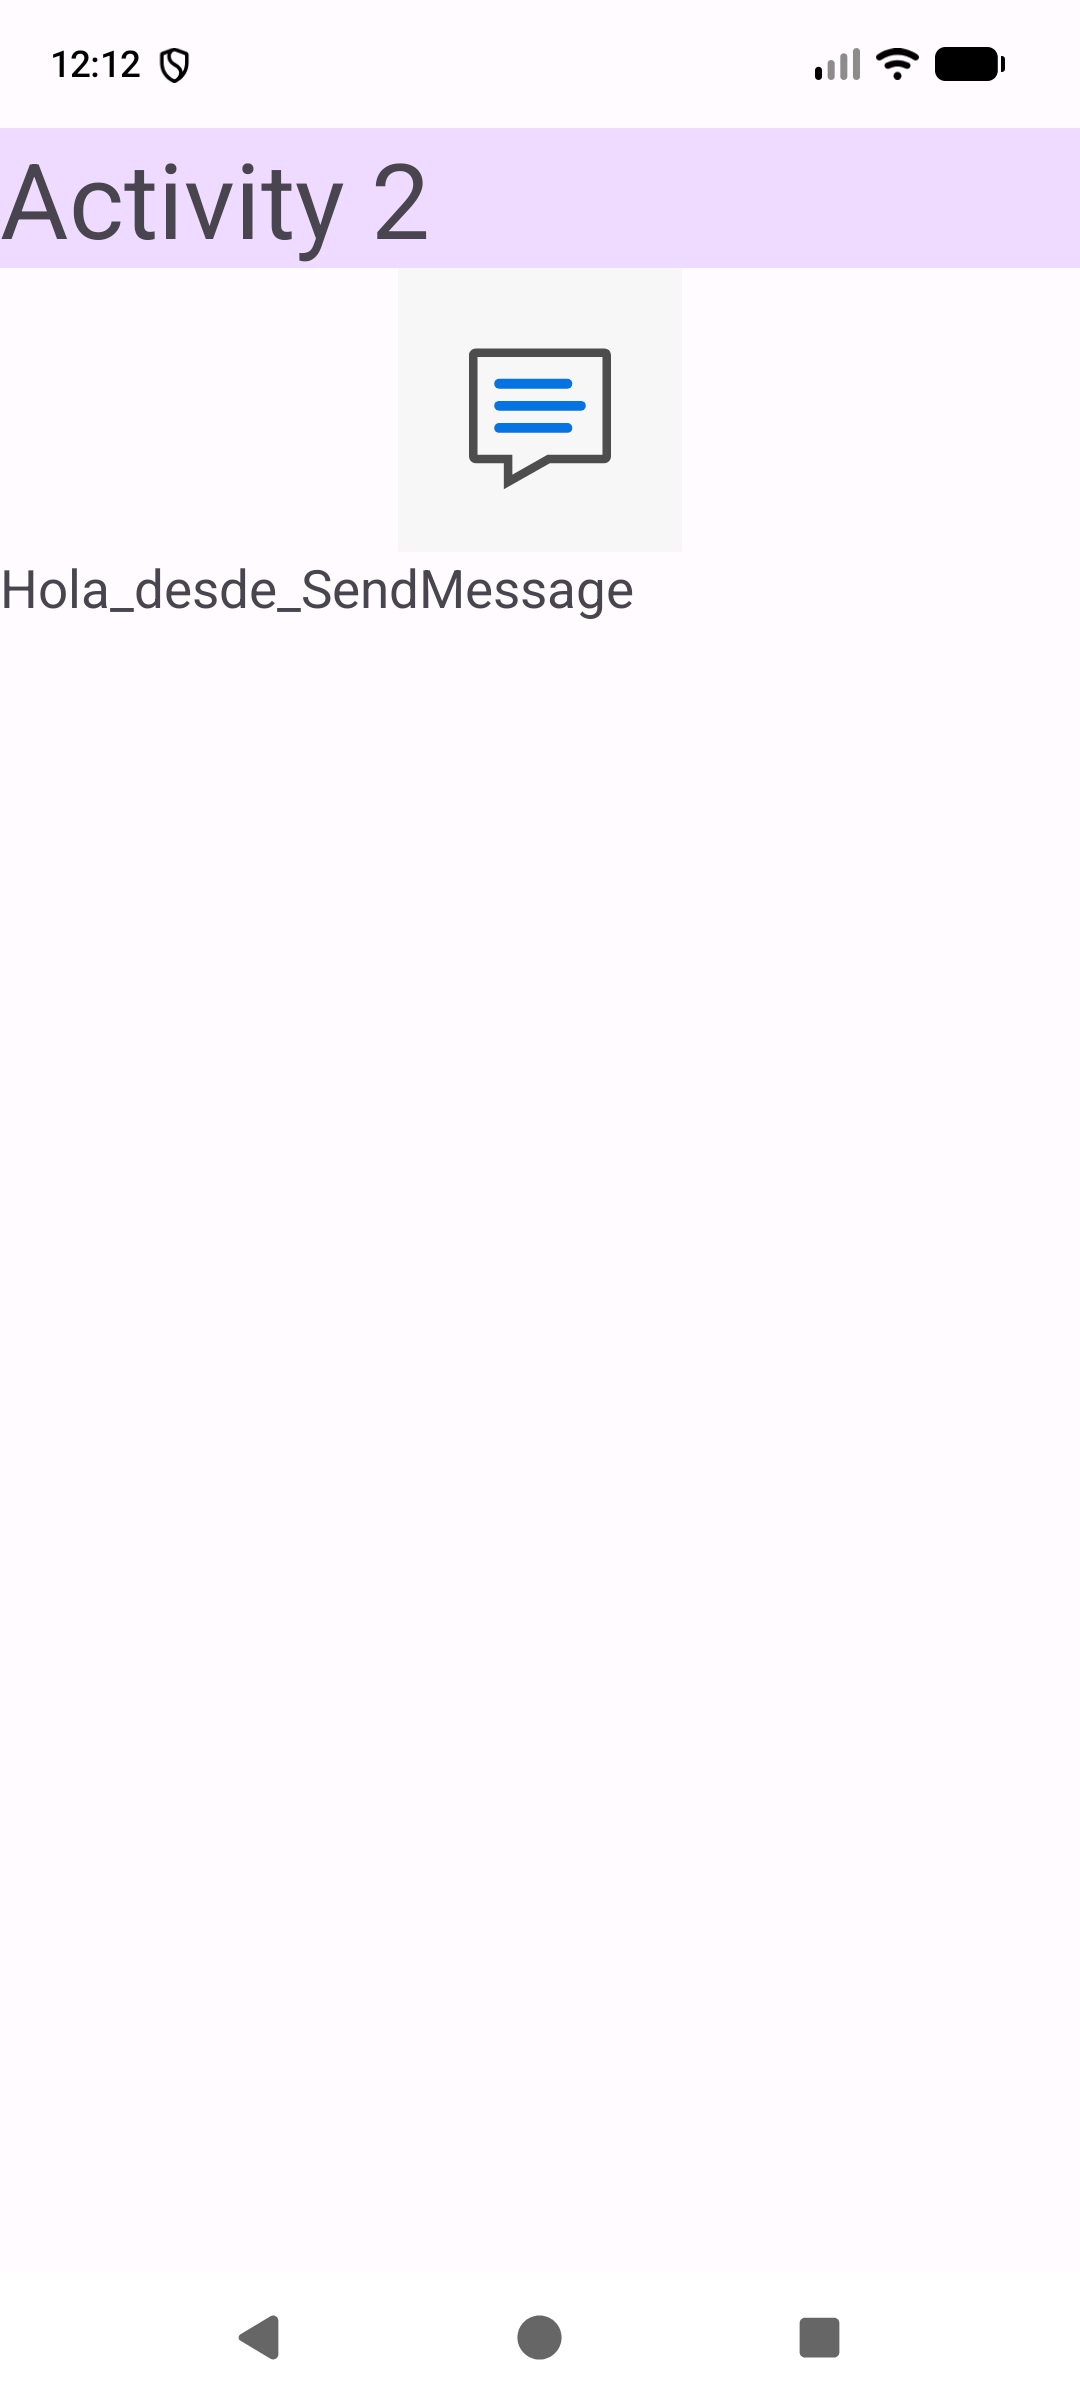
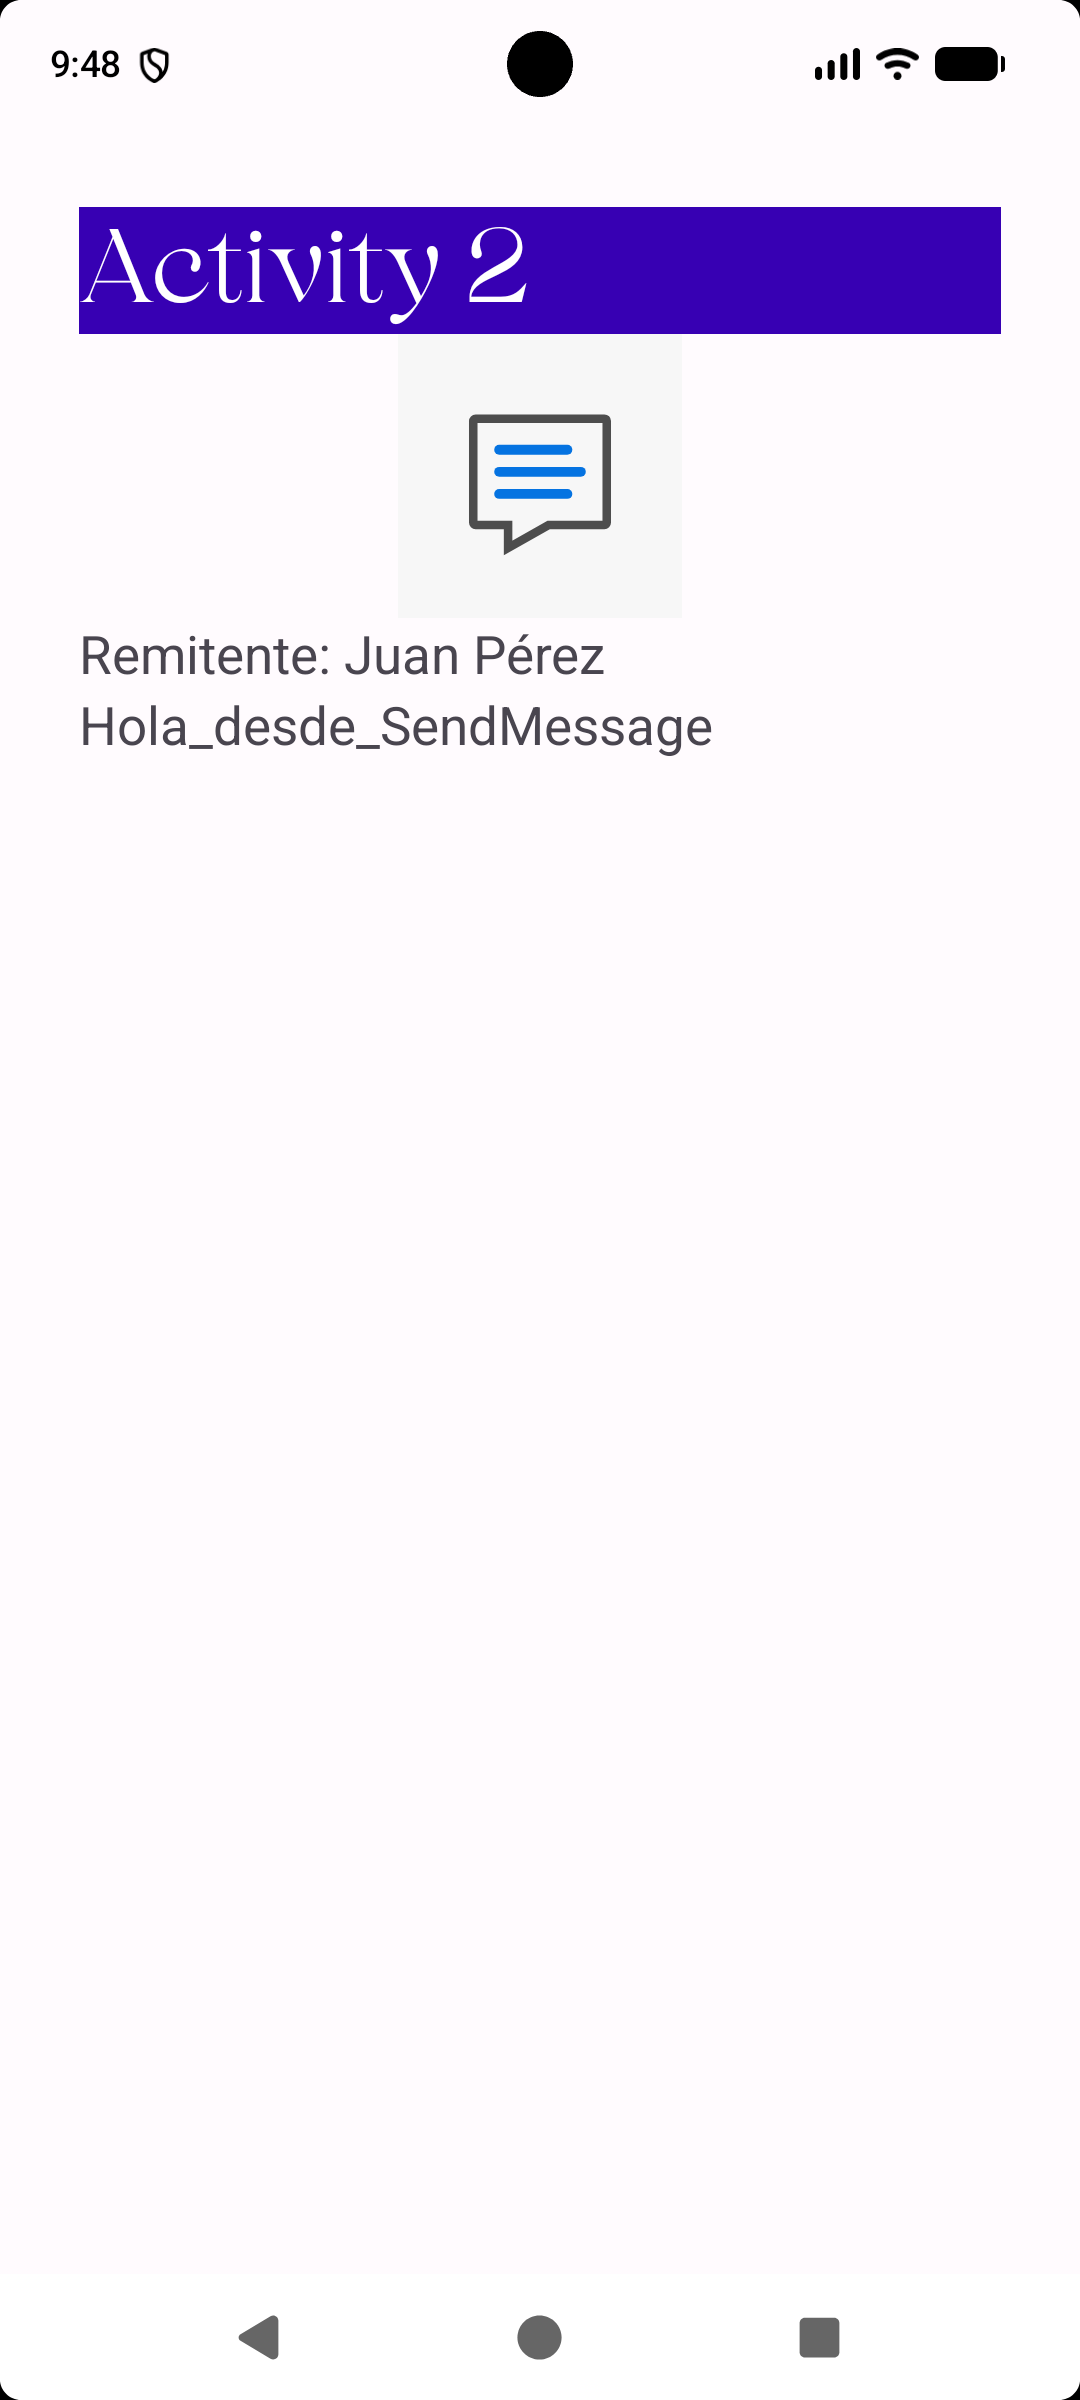
Utilizado interfaz parcelable. Actualización de la documentación

Changed region(s): [[0.0, 0.0, 1.0, 0.3125]]

diff --git a/app/src/main/java/com/example/sendmessage/ViewMessageActivity.kt b/app/src/main/java/com/example/sendmessage/ViewMessageActivity.kt
@@ -14,17 +14,23 @@ import com.example.sendmessage.model.Message
 /**
  * Pantalla secundaria que recibe y muestra el mensaje enviado desde [SendMessagesActivity].
  *
- * Extrae el objeto [Message] (Serializable) de los extras del [Intent] mediante la clave
+ * Extrae el objeto [Message] (Parcelable) de los extras del [Intent] mediante la clave
  * [SendMessagesActivity.KEY_MESSAGE] y despliega en pantalla tanto el remitente como el mensaje.
+ *  @author Andrey Udodov
+ *  @version 1.0
  */
 class ViewMessageActivity : AppCompatActivity() {
 
+    /**
+     * Objeto de compañía con constantes utilizadas en [ViewMessageActivity].
+     */
     companion object {
+        /** Etiqueta para los mensajes de depuración en LogCat. */
         const val TAG = "LogViewMessageActivity"
     }
 
     /**
-     * Método de ciclo de vida que inicializa el diseño, ajusta los insets de ventana (edge-to-edge)
+     * Función de ciclo de vida que inicializa el diseño, ajusta los insets de ventana (edge-to-edge)
      * y obtiene el mensaje del [Intent] para mostrarlo en pantalla.
      *
      * @param savedInstanceState Estado guardado de la actividad, si existe.
@@ -44,10 +50,10 @@ class ViewMessageActivity : AppCompatActivity() {
         val tvMessage = findViewById<TextView>(R.id.tvMessage)
 
         val message = if (Build.VERSION.SDK_INT >= Build.VERSION_CODES.TIRAMISU) {
-            intent.getSerializableExtra(SendMessagesActivity.KEY_MESSAGE, Message::class.java)
+            intent.getParcelableExtra(SendMessagesActivity.KEY_MESSAGE, Message::class.java)
         } else {
             @Suppress("DEPRECATION")
-            intent.getSerializableExtra(SendMessagesActivity.KEY_MESSAGE) as? Message
+            intent.getParcelableExtra(SendMessagesActivity.KEY_MESSAGE) as? Message
         }
 
         message?.let {
@@ -59,26 +65,31 @@ class ViewMessageActivity : AppCompatActivity() {
     }
 
     //region Ciclo de Vida de una Actividad
+    /** Función llamada cuando la actividad se vuelve visible para el usuario. */
     override fun onStart() {
         super.onStart()
         Log.d(TAG, "ViewMessageActivity -> onStart()")
     }
 
+    /** Función llamada cuando la actividad comienza a interactuar con el usuario. */
     override fun onResume() {
         super.onResume()
         Log.d(TAG, "ViewMessageActivity -> onResume()")
     }
 
+    /** Función llamada cuando la actividad pierde el foco pero sigue siendo visible. */
     override fun onPause() {
         super.onPause()
         Log.d(TAG, "ViewMessageActivity -> onPause()")
     }
 
+    /** Función llamada cuando la actividad ya no es visible para el usuario. */
     override fun onStop() {
         super.onStop()
         Log.d(TAG, "ViewMessageActivity -> onStop()")
     }
 
+    /** Función llamada antes de que la actividad sea destruida. */
     override fun onDestroy() {
         super.onDestroy()
         Log.d(TAG, "ViewMessageActivity -> onDestroy()")

diff --git a/app/src/main/java/com/example/sendmessage/SendMessagesActivity.kt b/app/src/main/java/com/example/sendmessage/SendMessagesActivity.kt
@@ -25,19 +25,25 @@ import com.example.sendmessage.model.Person
  * @see android.os.Bundle
  */
 class SendMessagesActivity : AppCompatActivity() {
+    /** Campo de texto para ingresar el contenido del mensaje. */
     lateinit var etMessageText: EditText
+
+    /** Botón para enviar el mensaje a la siguiente actividad. */
     lateinit var btSend: Button
 
     /**
-     * Clave utilizada para pasar el mensaje como extra en el [Intent].
+     * Objeto de compañía con constantes globales de la actividad.
      */
     companion object {
+        /** Clave utilizada para pasar el mensaje como extra en el [Intent]. */
         const val KEY_MESSAGE = "KEY_MESSAGE"
+
+        /** Etiqueta para los mensajes de depuración en LogCat. */
         const val TAG = "LogSendMessagesActivity"
     }
 
     /**
-     * Método llamado al crear la actividad. Se encarga de inicializar la interfaz de usuario,
+     * Función llamada al crear la actividad. Se encarga de inicializar la interfaz de usuario,
      * enlazar los componentes visuales y configurar los eventos de clic.
      *
      * Como medida de aprendizaje, aquí se muestra cómo pasar datos dato a dato utilizando un [Bundle]:
@@ -82,32 +88,37 @@ class SendMessagesActivity : AppCompatActivity() {
         val receiver = Person("87654321B", "María", "López")
 
         val message = Message(1, etMessageText.text.toString(), sender, receiver)
-        bundle.putSerializable(KEY_MESSAGE, message)
+        bundle.putParcelable(KEY_MESSAGE, message)
         intent.putExtras(bundle)
         startActivity(intent)
     }
 
     //region Ciclo de Vida de una Actividad
+    /** Función llamada cuando la actividad se vuelve visible para el usuario. */
     override fun onStart() {
         super.onStart()
         Log.d(TAG, "SendMessagesActivity -> onStart()")
     }
 
+    /** Función llamada cuando la actividad comienza a interactuar con el usuario. */
     override fun onResume() {
         super.onResume()
         Log.d(TAG, "SendMessagesActivity -> onResume()")
     }
 
+    /** Función llamada cuando la actividad pierde el foco pero sigue siendo visible. */
     override fun onPause() {
         super.onPause()
         Log.d(TAG, "SendMessagesActivity -> onPause()")
     }
 
+    /** Función llamada cuando la actividad ya no es visible para el usuario. */
     override fun onStop() {
         super.onStop()
         Log.d(TAG, "SendMessagesActivity -> onStop()")
     }
 
+    /** Función llamada antes de que la actividad sea destruida. */
     override fun onDestroy() {
         super.onDestroy()
         Log.d(TAG, "SendMessagesActivity -> onDestroy()")

diff --git a/app/src/main/java/com/example/sendmessage/model/Message.kt b/app/src/main/java/com/example/sendmessage/model/Message.kt
@@ -1,5 +1,20 @@
 package com.example.sendmessage.model
 
-import java.io.Serializable
+import android.os.Parcelable
+import kotlinx.parcelize.Parcelize
 
-data class Message(val id: Int, val content:String, val sender: Person, val receiver: Person): Serializable
+/**
+ * Representa un **mensaje** enviado entre dos personas ([Person]) dentro de la aplicación.
+ *
+ * Esta clase almacena la información del mensaje así como el remitente (*sender*) y el destinatario (*receiver*).
+ *
+ * @property id Identificador único del mensaje.
+ * @property content Contenido de texto del mensaje.
+ * @property sender Objeto [Person] que representa a la persona que envía el mensaje.
+ * @property receiver Objeto [Person] que representa a la persona que recibe el mensaje.
+ * @author Andrey Udodov
+ * @version 1.0
+ * @see Person
+ */
+@Parcelize
+data class Message(val id: Int, val content: String, val sender: Person, val receiver: Person) : Parcelable

diff --git a/app/src/main/java/com/example/sendmessage/model/Person.kt b/app/src/main/java/com/example/sendmessage/model/Person.kt
@@ -1,5 +1,18 @@
 package com.example.sendmessage.model
 
-import java.io.Serializable
+import android.os.Parcelable
+import kotlinx.parcelize.Parcelize
 
-data class Person (val dni: String, val name: String, val surname: String): Serializable
+/**
+ * Representa a una persona dentro de la aplicación.
+ *
+ * Sus datos identifican al participante que envía o recibe un **mensaje**.
+ *
+ * @property dni Documento nacional de identidad de la persona.
+ * @property name Nombre de la persona.
+ * @property surname Apellido de la persona.
+ * @author Andrey Udodov
+ * @version 1.0
+ */
+@Parcelize
+data class Person(val dni: String, val name: String, val surname: String) : Parcelable

diff --git a/app/src/main/java/com/example/sendmessage/SendMessageApplication.kt b/app/src/main/java/com/example/sendmessage/SendMessageApplication.kt
@@ -7,5 +7,8 @@ import android.app.Application
  *
  * Representa el estado global de la aplicación y se inicializa antes que cualquier
  * otra actividad o componente.
+ *
+ * @author Andrey Udodov
+ * @version 1.0
  */
 class SendMessageApplication : Application()
